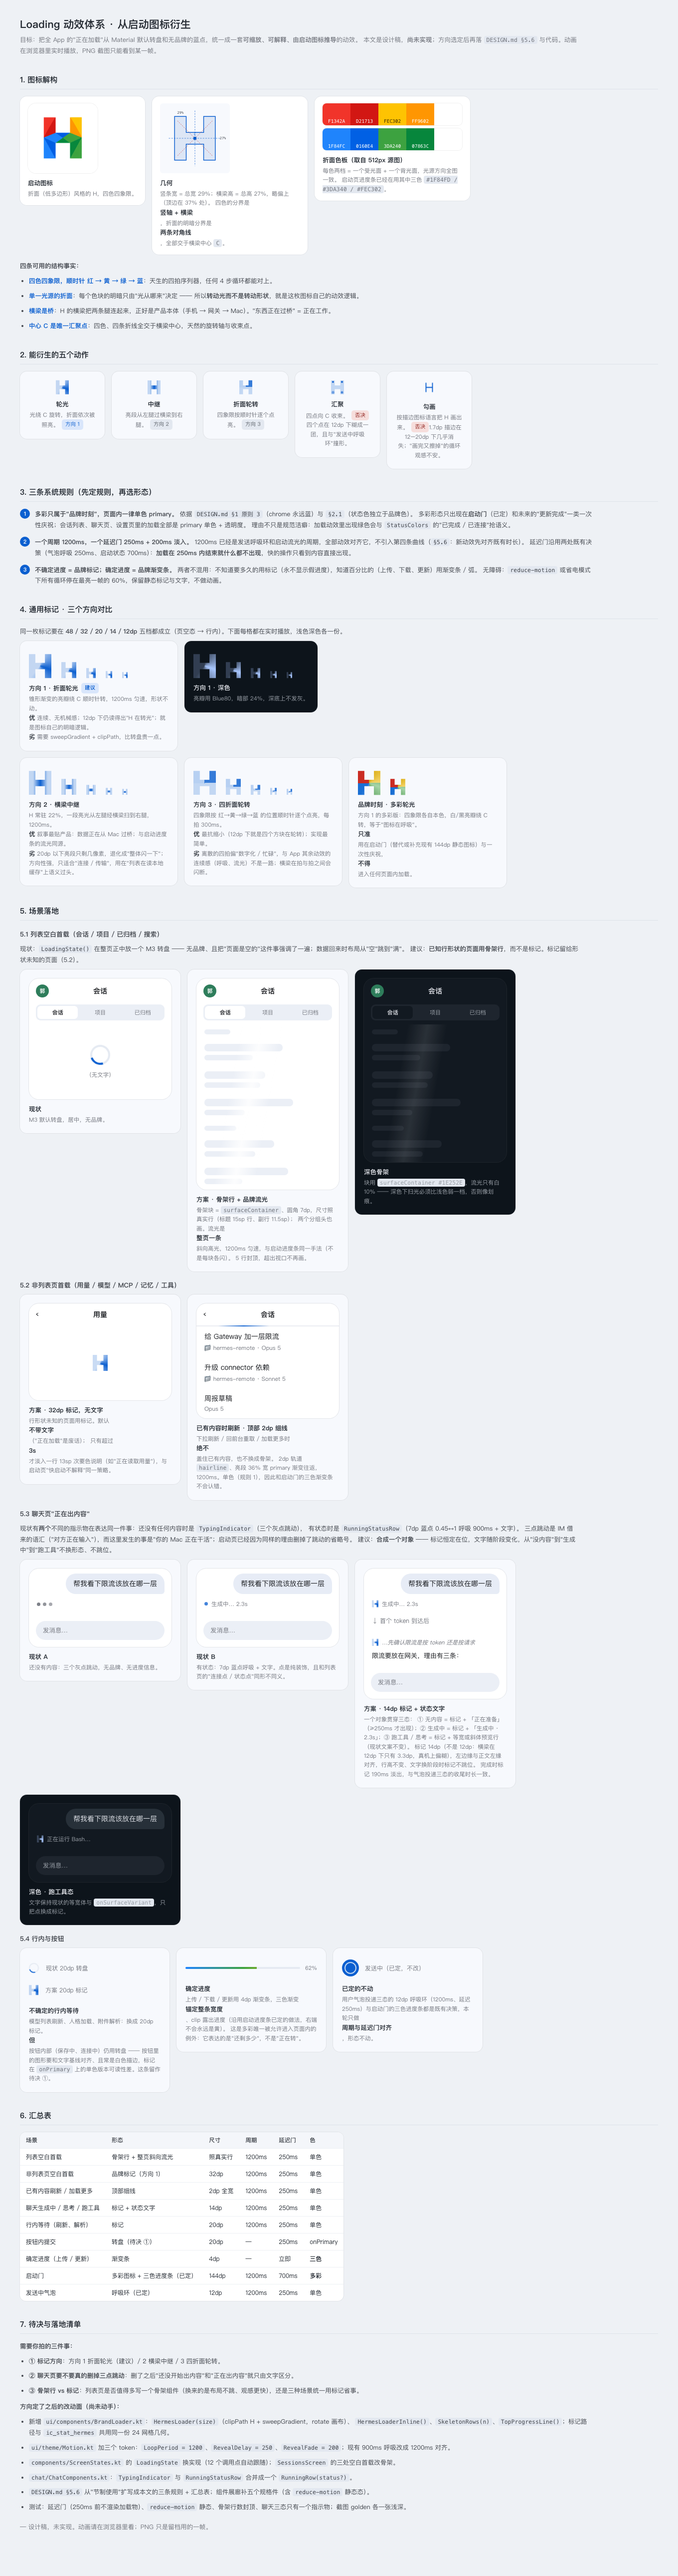
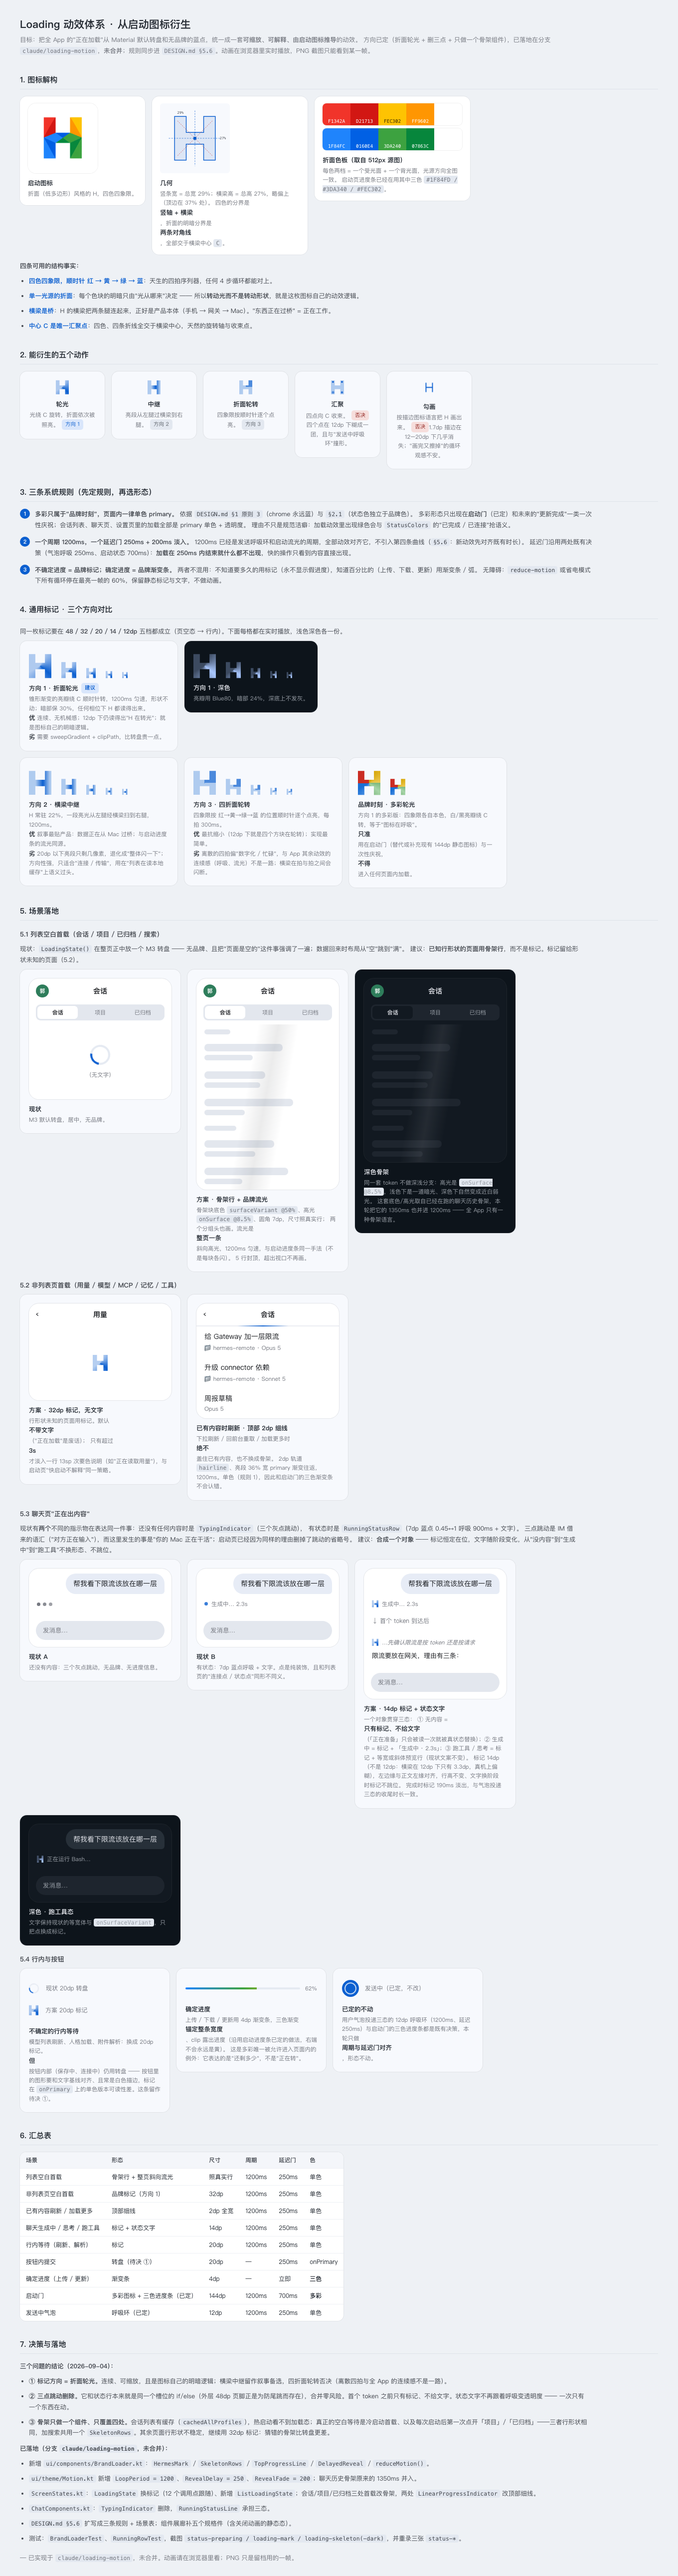
docs(design): loading-motion decisions taken and shipped on the branch
Directions resolved (facet sweep, three dots deleted, one skeleton component
for the four list screens); skeleton tokens corrected to the values the code
actually uses, shared with the chat history skeleton.

diff --git a/docs/design/loading-motion.html b/docs/design/loading-motion.html
@@ -31,12 +31,12 @@ th{background:#F4F6FA;font-weight:600;font-size:11.5px;color:#43474E}
 tr:last-child td{border-bottom:0}
 
 /* ---------- themes ---------- */
-.light{--bg:#F7F9FD;--surf:#FFFFFF;--fg:#1A1C20;--sec:#74777F;--cont:#EBEFF6;--conth:#E5EAF2;
-       --hair:#EBEDF2;--p:#0B5FD0;--pFull:rgba(11,95,208,1);--pDim:rgba(11,95,208,.22);
-       --sweep:rgba(255,255,255,.85);--bub:#E7ECF6}
+.light{--bg:#F7F9FD;--surf:#FFFFFF;--fg:#1A1C20;--sec:#74777F;--cont:#E3E7EE;--conth:#E5EAF2;
+       --hair:#EBEDF2;--p:#0B5FD0;--pFull:rgba(11,95,208,1);--pDim:rgba(11,95,208,.30);
+       --sweep:rgba(26,28,32,.085);--bub:#E7ECF6}
 .dark{--bg:#0D141B;--surf:#121921;--fg:#E1E3E9;--sec:#9AA0A8;--cont:#1E252E;--conth:#283039;
-      --hair:#2B323A;--p:#A9C7FF;--pFull:rgba(169,199,255,1);--pDim:rgba(169,199,255,.24);
-      --sweep:rgba(255,255,255,.10);--bub:#273039}
+      --hair:#2B323A;--p:#A9C7FF;--pFull:rgba(169,199,255,1);--pDim:rgba(169,199,255,.30);
+      --sweep:rgba(225,227,233,.085);--bub:#273039}
 .stage{background:var(--bg);color:var(--fg);border-radius:14px;padding:18px;box-shadow:0 0 0 1px rgba(0,0,0,.06)}
 .dark .cap{color:#9AA0A8}.dark .cap b{color:#E1E3E9}
 
@@ -136,7 +136,7 @@ tr:last-child td{border-bottom:0}
 
 <h1>Loading 动效体系 · 从启动图标衍生</h1>
 <p class="sub">目标：把全 App 的"正在加载"从 Material 默认转盘和无品牌的蓝点，统一成一套<b>可缩放、可解释、由启动图标推导</b>的动效。
-本文是设计稿，<b>尚未实现</b>；方向选定后再落 <code>DESIGN.md §5.6</code> 与代码。动画在浏览器里实时播放，PNG 截图只能看到某一帧。</p>
+方向已定（折面轮光 + 删三点 + 只做一个骨架组件），已落地在分支 <code>claude/loading-motion</code>，<b>未合并</b>；规则同步进 <code>DESIGN.md §5.6</code>。动画在浏览器里实时播放，PNG 截图只能看到某一帧。</p>
 
 <h2>1. 图标解构</h2>
 <div class="row">
@@ -227,7 +227,7 @@ tr:last-child td{border-bottom:0}
       <span class="mark s20 sweepm"><i></i></span><span class="mark s14 sweepm"><i></i></span><span class="mark s12 sweepm"><i></i></span>
     </div>
     <div class="cap"><b>方向 1 · 折面轮光<span class="tag rec">建议</span></b>
-    锥形渐变的亮瓣绕 C 顺时针转，1200ms 匀速，形状不动。<br>
+    锥形渐变的亮瓣绕 C 顺时针转，1200ms 匀速，形状不动；暗部保 30%，任何相位下 H 都读得出来。<br>
     <b style="display:inline;font-weight:600">优</b> 连续、无机械感；12dp 下仍读得出"H 在转光"；就是图标自己的明暗逻辑。<br>
     <b style="display:inline;font-weight:600">劣</b> 需要 sweepGradient + clipPath，比转盘贵一点。</div>
   </div>
@@ -296,7 +296,7 @@ tr:last-child td{border-bottom:0}
         <div class="lrow"><div class="sk" style="width:66%;height:15px"></div><div class="sk" style="width:30%;height:11px;margin-top:7px"></div></div>
       </div>
     </div>
-    <div class="cap"><b>方案 · 骨架行 + 品牌流光</b>骨架块 = <code>surfaceContainer</code>、圆角 7dp，尺寸照真实行（标题 15sp 行、副行 11.5sp）；
+    <div class="cap"><b>方案 · 骨架行 + 品牌流光</b>骨架块底色 <code>surfaceVariant @50%</code>、高光 <code>onSurface @8.5%</code>、圆角 7dp，尺寸照真实行；
     两个分组头也画。流光是<b>整页一条</b>斜向高光，1200ms 匀速，与启动进度条同一手法（不是每块各闪）。
     5 行封顶，超出视口不再画。</div>
   </div>
@@ -313,7 +313,8 @@ tr:last-child td{border-bottom:0}
         <div class="lrow"><div class="sk" style="width:55%;height:15px"></div><div class="sk" style="width:40%;height:11px;margin-top:7px"></div></div>
       </div>
     </div>
-    <div class="cap"><b>深色骨架</b>块用 <code>surfaceContainer #1E252E</code>，流光只有白 10% —— 深色下扫光必须比浅色弱一档，否则像划痕。</div>
+    <div class="cap"><b>深色骨架</b>同一套 token 不做深浅分支：高光是 <code>onSurface @8.5%</code>，浅色下是一道暗光、深色下自然变成近白弱光。
+    这套底色/高光取自已经在跑的聊天历史骨架，本轮把它的 1350ms 也并进 1200ms —— 全 App 只有一种骨架语言。</div>
   </div>
 </div>
 
@@ -372,7 +373,7 @@ tr:last-child td{border-bottom:0}
       <div class="ib">发消息…</div>
     </div>
     <div class="cap"><b>方案 · 14dp 标记 + 状态文字</b>一个对象贯穿三态：
-    ① 无内容 = 标记 + 「正在准备」（≥250ms 才出现）；② 生成中 = 标记 + 「生成中 · 2.3s」；③ 跑工具 / 思考 = 标记 + 等宽或斜体预览行（现状文案不变）。
+    ① 无内容 = <b>只有标记、不给文字</b>（「正在准备」只会被读一次就被真状态替换）；② 生成中 = 标记 + 「生成中 · 2.3s」；③ 跑工具 / 思考 = 标记 + 等宽或斜体预览行（现状文案不变）。
     标记 14dp（不是 12dp：横梁在 12dp 下只有 3.3dp，真机上偏糊），左边缘与正文左缘对齐，行高不变、文字换阶段时标记不跳位。
     完成时标记 190ms 淡出，与气泡投递三态的收尾时长一致。</div>
   </div>
@@ -431,22 +432,21 @@ tr:last-child td{border-bottom:0}
 <tr><td>发送中气泡</td><td>呼吸环（已定）</td><td>12dp</td><td>1200ms</td><td>250ms</td><td>单色</td></tr>
 </table>
 
-<h2>7. 待决与落地清单</h2>
-<p><b>需要你拍的三件事：</b></p>
+<h2>7. 决策与落地</h2>
+<p><b>三个问题的结论（2026-09-04）：</b></p>
 <ul>
-  <li><b>① 标记方向</b>：方向 1 折面轮光（建议）/ 2 横梁中继 / 3 四折面轮转。</li>
-  <li><b>② 聊天页要不要真的删掉三点跳动</b>：删了之后"还没开始出内容"和"正在出内容"就只由文字区分。</li>
-  <li><b>③ 骨架行 vs 标记</b>：列表页是否值得多写一个骨架组件（换来的是布局不跳、观感更快），还是三种场景统一用标记省事。</li>
+  <li><b>① 标记方向 = 折面轮光。</b>连续、可缩放，且是图标自己的明暗逻辑；横梁中继留作叙事备选，四折面轮转否决（离散四拍与全 App 的连续感不是一路）。</li>
+  <li><b>② 三点跳动删除。</b>它和状态行本来就是同一个槽位的 if/else（外层 48dp 页脚正是为防尾跳而存在），合并零风险。首个 token 之前只有标记、不给文字。状态文字不再跟着呼吸变透明度 —— 一次只有一个东西在动。</li>
+  <li><b>③ 骨架只做一个组件、只覆盖四处。</b>会话列表有缓存（<code>cachedAllProfiles</code>），热启动看不到加载态；真正的空白等待是冷启动首载、以及每次启动后第一次点开「项目」/「已归档」——三者行形状相同，加搜索共用一个 <code>SkeletonRows</code>。其余页面行形状不稳定，继续用 32dp 标记：猜错的骨架比转盘更差。</li>
 </ul>
-<p><b>方向定了之后的改动面（尚未动手）：</b></p>
+<p><b>已落地（分支 <code>claude/loading-motion</code>，未合并）：</b></p>
 <ul>
-  <li>新增 <code>ui/components/BrandLoader.kt</code>：<code>HermesLoader(size)</code>（clipPath H + sweepGradient，rotate 画布）、
-      <code>HermesLoaderInline()</code>、<code>SkeletonRows(n)</code>、<code>TopProgressLine()</code>；标记路径与 <code>ic_stat_hermes</code> 共用同一份 24 网格几何。</li>
-  <li><code>ui/theme/Motion.kt</code> 加三个 token：<code>LoopPeriod = 1200</code>、<code>RevealDelay = 250</code>、<code>RevealFade = 200</code>；现有 900ms 呼吸改成 1200ms 对齐。</li>
-  <li><code>components/ScreenStates.kt</code> 的 <code>LoadingState</code> 换实现（12 个调用点自动跟随）；<code>SessionsScreen</code> 的三处空白首载改骨架。</li>
-  <li><code>chat/ChatComponents.kt</code>：<code>TypingIndicator</code> 与 <code>RunningStatusRow</code> 合并成一个 <code>RunningRow(status?)</code>。</li>
-  <li><code>DESIGN.md §5.6</code> 从"节制使用"扩写成本文的三条规则 + 汇总表；组件展廊补五个规格件（含 <code>reduce-motion</code> 静态态）。</li>
-  <li>测试：延迟门（250ms 前不渲染加载物）、<code>reduce-motion</code> 静态、骨架行数封顶、聊天三态只有一个指示物；截图 golden 各一张浅深。</li>
+  <li>新增 <code>ui/components/BrandLoader.kt</code>：<code>HermesMark</code> / <code>SkeletonRows</code> / <code>TopProgressLine</code> / <code>DelayedReveal</code> / <code>reduceMotion()</code>。</li>
+  <li><code>ui/theme/Motion.kt</code> 新增 <code>LoopPeriod = 1200</code>、<code>RevealDelay = 250</code>、<code>RevealFade = 200</code>；聊天历史骨架原来的 1350ms 并入。</li>
+  <li><code>ScreenStates.kt</code>：<code>LoadingState</code> 换标记（12 个调用点跟随）、新增 <code>ListLoadingState</code>；会话/项目/已归档三处首载改骨架，两处 <code>LinearProgressIndicator</code> 改顶部细线。</li>
+  <li><code>ChatComponents.kt</code>：<code>TypingIndicator</code> 删除，<code>RunningStatusLine</code> 承担三态。</li>
+  <li><code>DESIGN.md §5.6</code> 扩写成三条规则 + 场景表；组件展廊补五个规格件（含关闭动画的静态态）。</li>
+  <li>测试：<code>BrandLoaderTest</code>、<code>RunningRowTest</code>，截图 <code>status-preparing / loading-mark / loading-skeleton(-dark)</code>，并重录三张 <code>status-*</code>。</li>
 </ul>
-<p class="sub" style="margin-top:18px">— 设计稿，未实现。动画请在浏览器里看；PNG 只是留档用的一帧。</p>
+<p class="sub" style="margin-top:18px">— 已实现于 <code>claude/loading-motion</code>，未合并。动画请在浏览器里看；PNG 只是留档用的一帧。</p>
 </body></html>
